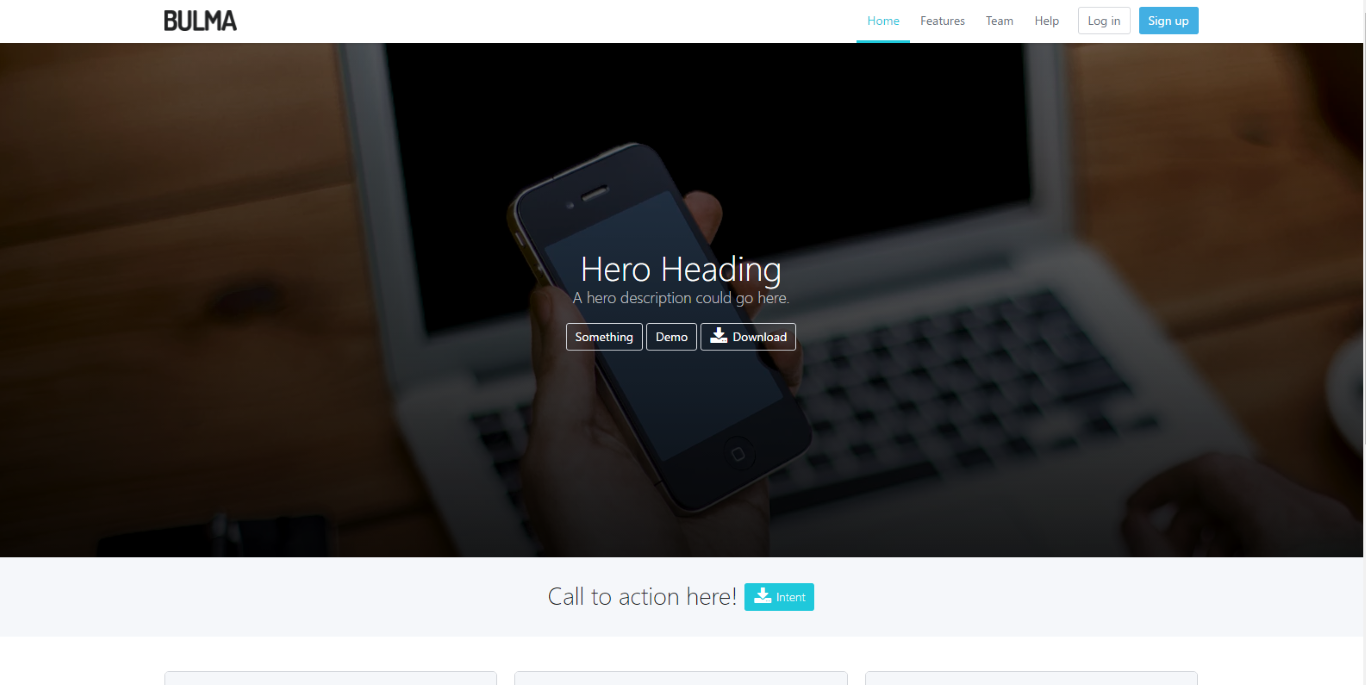
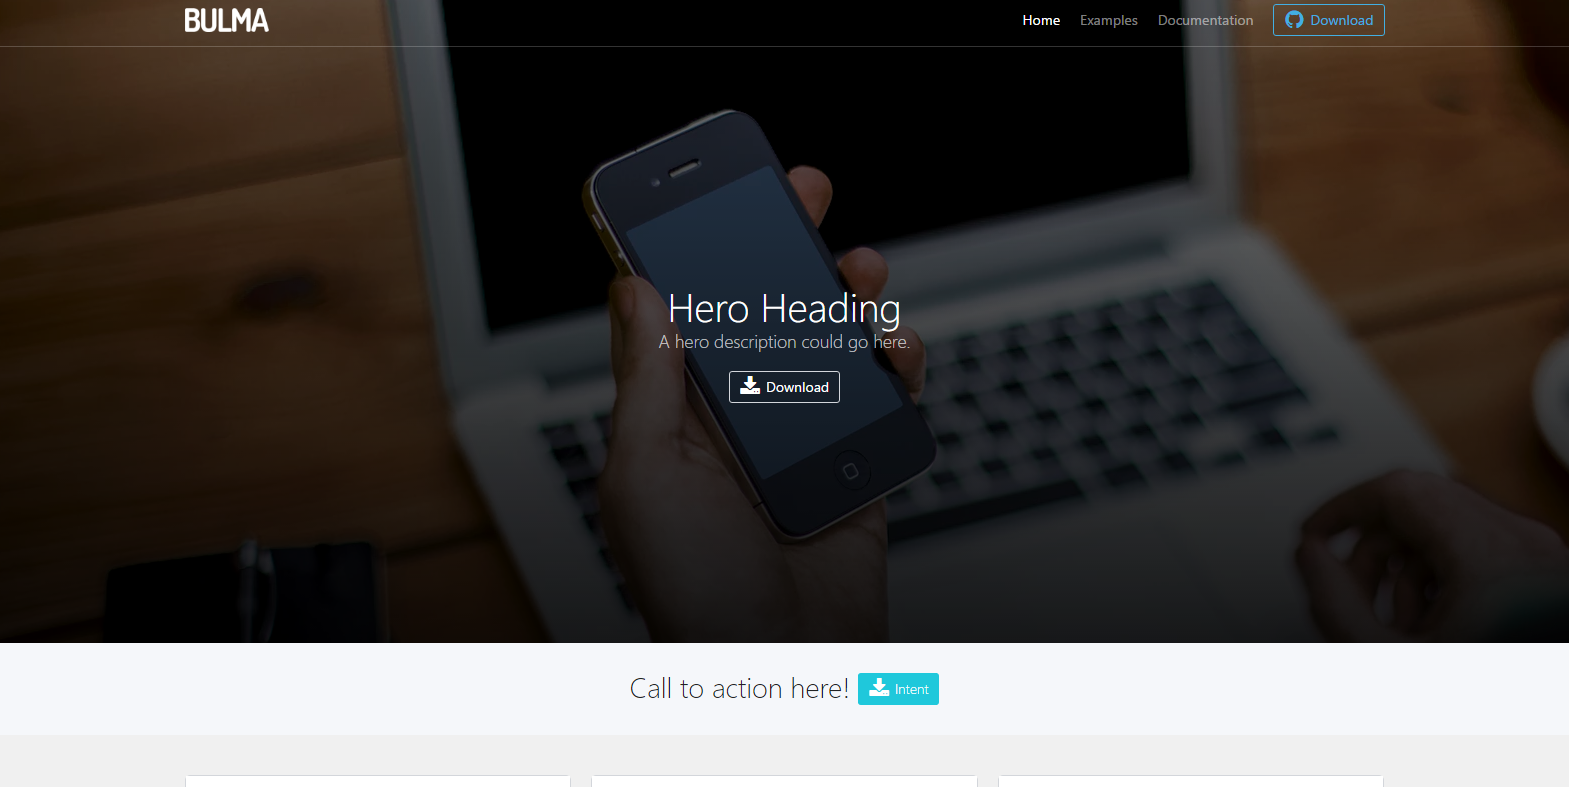
Update hero template

diff --git a/templates/hero.html b/templates/hero.html
@@ -8,50 +8,45 @@
   <link rel="stylesheet" href="https://maxcdn.bootstrapcdn.com/font-awesome/4.5.0/css/font-awesome.min.css">
   <link rel="stylesheet" type="text/css" href="https://cdnjs.cloudflare.com/ajax/libs/bulma/0.1.0/css/bulma.min.css">
   <link rel="stylesheet" type="text/css" href="../css/hero.css">
-  <style type="text/css">
-    body {
-      font-family: -apple-system,BlinkMacSystemFont,"Segoe UI",Roboto,Helvetica,Arial,sans-serif,"Apple Color Emoji","Segoe UI Emoji","Segoe UI Symbol";
-    }
-  </style>
 </head>
 <body>
-  <nav class="nav has-shadow" id="top">
-    <div class="container">
-      <div class="nav-left">
-        <a class="nav-item" href="../index.html">
-          <img src="../images/bulma.png" alt="Description">
-        </a>
-      </div>
-      <span class="nav-toggle">
-        <span></span>
-        <span></span>
-        <span></span>
-      </span>
-      <div class="nav-right nav-menu">
-        <a class="nav-item is-tab is-active">
-          Home
-        </a>
-        <a class="nav-item is-tab">
-          Features
-        </a>
-        <a class="nav-item is-tab">
-          Team
-        </a>
-        <a class="nav-item is-tab">
-          Help
-        </a>
-        <span class="nav-item">
-          <a class="button">
-            Log in
-          </a>
-          <a class="button is-info">
-            Sign up
-          </a>
-        </span>
-      </div>
-    </div>
-  </nav>
+
   <section class="hero is-primary is-large header-image">
+    <div class="hero-head">
+      <header class="nav">
+        <div class="container">
+          <div class="nav-left">
+            <a class="nav-item" href="../index.html">
+              <img src="../images/bulma-white.png" alt="Logo">
+            </a>
+          </div>
+          <span class="nav-toggle">
+            <span></span>
+            <span></span>
+            <span></span>
+          </span>
+          <div class="nav-right nav-menu">
+            <a class="nav-item is-active">
+              Home
+            </a>
+            <a class="nav-item">
+              Examples
+            </a>
+            <a class="nav-item">
+              Documentation
+            </a>
+            <span class="nav-item">
+              <a class="button is-info is-outlined is-inverted">
+                <span class="icon">
+                  <i class="fa fa-github"></i>
+                </span>
+                <span>Download</span>
+              </a>
+            </span>
+          </div>
+        </div>
+      </header>
+    </div>
     <div class="hero-body">
       <div class="container has-text-centered">
         <h1 class="title is-2">
@@ -61,8 +56,6 @@
           A hero description could go here.
         </h2>
         <p>
-          <a class="button is-outlined">Something</a>
-          <a class="button is-outlined">Demo</a>
           <a class="button is-outlined">
             <span class="icon">
               <i class="fa fa-download"></i> 
@@ -82,43 +75,40 @@
       </div>
     </nav>
   </div>
-  <div class="section">
+  <div class="section main">
     <div class="container">
-      <div class="column is-8 is-offset-2">
-        <div class="notification is-danger" style="margin-bottom:40px;">
-          <button class="delete" onclick="((this).parentNode.remove())"></button>
-          This template is not yet finished, it may change. Please check the readme for more information.
-        </div>
-      </div>
       <div class="columns">
         <div class="column is-4">
           <div class="panel">
-            <p class="panel-heading">
-              Heading
-            </p>
             <div class="panel-block section">
+              <p class="has-text-centered"><i class="fa fa-camera-retro icon-block"></i></p>
+              <br>
               <p>Lorem ipsum dolor sit amet, consectetur adipiscing elit. Aenean efficitur sit amet massa fringilla egestas. Nullam condimentum luctus turpis.</p>
+              <br>
+              <p class="has-text-centered"><a class="button is-info is-outlined">Action</a></p>
             </div>
           </div>
         </div>
         <div class="column is-4">
           <div class="panel">
-            <p class="panel-heading">
-              Heading
-            </p>
             <div class="panel-block section">
+              <p class="has-text-centered"><i class="fa fa-bar-chart icon-block"></i></p>
+              <br>
               <p>Lorem ipsum dolor sit amet, consectetur adipiscing elit. Aenean efficitur sit amet massa fringilla egestas. Nullam condimentum luctus turpis.</p>
+              <br>
+              <p class="has-text-centered"><a class="button is-info is-outlined">Action</a></p>
             </div>
           </div>
 
         </div>
         <div class="column is-4">
           <div class="panel">
-            <p class="panel-heading">
-              Heading
-            </p>
             <div class="panel-block section">
+              <p class="has-text-centered"><i class="fa fa-cloud icon-block"></i></p>
+              <br>
               <p>Lorem ipsum dolor sit amet, consectetur adipiscing elit. Aenean efficitur sit amet massa fringilla egestas. Nullam condimentum luctus turpis.</p>
+              <br>
+              <p class="has-text-centered"><a class="button is-info is-outlined">Action</a></p>
             </div>
           </div>
 

diff --git a/css/hero.css b/css/hero.css
@@ -1,3 +1,6 @@
+body {
+  font-family: -apple-system,BlinkMacSystemFont,"Segoe UI",Roboto,Helvetica,Arial,sans-serif,"Apple Color Emoji","Segoe UI Emoji","Segoe UI Symbol";
+}
 .header-image {
   background-image: linear-gradient(rgba(0, 0, 0, 0.49),rgba(0, 0, 0, 0.89)),url('https://images.unsplash.com/1/iphone-4-closeup.jpg?dpr=1&auto=format&crop=middle&fit=crop&w=2000&h=700&q=80');
 }
@@ -12,4 +15,10 @@
   font-size: 17px;
   line-height: 1.4;
   color:#95A5A6;
+}
+.section.main {
+  background-color:#F0F0F0;
+}
+.icon-block {
+  font-size:5em;
 }

diff --git a/index.html b/index.html
@@ -120,8 +120,8 @@
           <a class="box" href="templates/hero.html">
             <h3 class="title is-4">
             Hero
-            <span class="tag is-danger">
-              WIP
+            <span class="tag is-primary">
+              v 0.1.0
             </span>
             </h3>
             <h4 class="subtitle is-5">A hero image layout</h4>

diff --git a/README.md b/README.md
@@ -8,12 +8,12 @@ WIP templates:
 -  admin ([demo](https://dansup.github.io/bulma-templates/templates/admin.html) | [source](https://raw.githubusercontent.com/dansup/bulma-templates/master/templates/admin.html))
 -  blog ([demo](https://dansup.github.io/bulma-templates/templates/blog.html) | [source](https://raw.githubusercontent.com/dansup/bulma-templates/master/templates/blog.html))
 -  blog post ([demo](https://dansup.github.io/bulma-templates/templates/blog-post.html) | [source](https://raw.githubusercontent.com/dansup/bulma-templates/master/templates/blog-post.html))
--  hero ([demo](https://dansup.github.io/bulma-templates/templates/hero.html) | [source](https://raw.githubusercontent.com/dansup/bulma-templates/master/templates/hero.html))
 
 Templates:
 
 -  cover ([demo](https://dansup.github.io/bulma-templates/templates/cover.html) | [source](https://raw.githubusercontent.com/dansup/bulma-templates/master/templates/cover.html))
 -  grid ([demo](https://dansup.github.io/bulma-templates/templates/grid-gallery.html) | [source](https://raw.githubusercontent.com/dansup/bulma-templates/master/templates/grid-gallery.html))
+-  hero ([demo](https://dansup.github.io/bulma-templates/templates/hero.html) | [source](https://raw.githubusercontent.com/dansup/bulma-templates/master/templates/hero.html))
 -  login ([demo](https://dansup.github.io/bulma-templates/templates/login.html) | [source](https://raw.githubusercontent.com/dansup/bulma-templates/master/templates/login.html))
 -  product ([demo](https://dansup.github.io/bulma-templates/templates/product.html) | [source](https://raw.githubusercontent.com/dansup/bulma-templates/master/templates/product.html))
 -  register ([demo](https://dansup.github.io/bulma-templates/templates/register.html) | [source](https://raw.githubusercontent.com/dansup/bulma-templates/master/templates/register.html))
